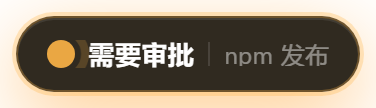
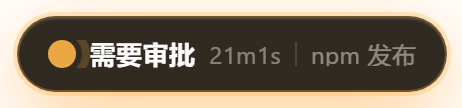
docs+fix: 0.3.1 — 补气泡/多行/多任务截图与版本说明；可见性心跳（浮层崩溃后不再假死）、清理死代码

Changed region(s): [[0.0878, 0.3611, 0.9069, 0.6389], [0.8484, 0.1111, 0.9947, 0.8889], [0.0293, 0.1111, 0.1463, 0.8889]]

diff --git a/docs/shoot.js b/docs/shoot.js
@@ -1,4 +1,5 @@
-// 开发用：渲染 README 里的截图（真实浮层 UI，不是 demo 页）。用法（在插件目录下）：
+// 开发用：渲染 README 里的截图（真实浮层 UI，不是 demo 页）。
+// 用法（在插件目录下）：
 //   unset ELECTRON_RUN_AS_NODE; "%LOCALAPPDATA%\dsh-island-runtime\DeepSeek Harness.exe" docs
 // 输出到 docs/shots/。
 const { app, BrowserWindow } = require('electron')
@@ -8,22 +9,107 @@ const path = require('path')
 const OVERLAY = path.join(__dirname, '..', 'overlay', 'index.html')
 const STUB = path.join(__dirname, 'shoot-preload.js')
 const OUT = path.join(__dirname, 'shots')
-const now = Date.now()
-const CFG = { scale: 1, mini: 34, position: 'top-center', showWhen: 'always', holdMs: { thinking: 60000, done: 60000, failed: 60000 }, effects: { whale: true, pulse: true, shake: true, reduce: false }, states: { thinking: true, approval: true, done: true, failed: true }, hideFullscreen: true }
 
-const CASES = {
-  thinking: [{ id: 'a', title: 'dsh 灵动岛状态提示方案', state: 'thinking', since: now - 83000 }],
-  approval: [{ id: 'a', title: 'npm 发布', state: 'approval', detail: 'shell', since: now - 4000 }],
-  done: [{ id: 'a', title: '重构浮层多任务布局', state: 'done', since: now - 500 }],
-  failed: [{ id: 'a', title: '修复登录超时', state: 'failed', detail: 'ECONNREFUSED', since: now - 500 }],
-  idle: [{ id: 'a', title: 'dsh 灵动岛', state: 'thinking', since: now - 83000 }], // 收起后的迷你态
-  multi: [
-    { id: 'a', title: 'npm 发布', state: 'approval', detail: 'shell', since: now - 4000 },
-    { id: 'b', title: '修复登录超时', state: 'failed', detail: 'ECONNREFUSED', since: now - 3000 },
-    { id: 'c', title: 'dsh 灵动岛方案', state: 'thinking', since: now - 83000 },
-    { id: 'd', title: '构建产物', state: 'done', since: now - 1000 },
-  ],
+const CFG = (o) => Object.assign({
+  scale: 1, mini: 34, position: 'top-center', showWhen: 'always',
+  layout: 'single', maxRows: 5,
+  holdMs: { thinking: 600000, done: 600000, failed: 600000 },
+  effects: { whale: true, pulse: true, shake: true, reduce: false },
+  states: { thinking: true, approval: true, done: true, failed: true },
+  hideFullscreen: true, bubble: { approval: true, ask: true },
+}, o || {})
+
+// stateAt 必须是「推给浮层的那一刻」，否则 done(3s)/failed(6s) 的 TTL 会把它们滤掉。
+// since 用相对偏移，保证计时器上的秒数每次都一样，截图可复现。
+const it = (id, title, state, agoMs, extra) => Object.assign({
+  id, title, state, detail: '',
+  since: Date.now() - (agoMs || 60000),
+  stateAt: Date.now(),
+}, extra || {})
+
+const APPROVAL = {
+  id: 'ap-demo', kind: 'approval', toolName: 'shell',
+  reason: '要在 npmjs 上发布 dsh-island-overlay@0.3.0，需要执行 npm publish',
 }
+const ASK = {
+  id: 'q-demo', kind: 'ask',
+  questions: [{
+    id: 'q1', question: '这次发布用哪个 tag？', header: '选择',
+    options: [{ label: 'latest' }, { label: 'next' }], multiSelect: false,
+  }],
+}
+
+// 每个用例：{ name, items, pending, cfg, hover }
+const CASES = [
+  {
+    name: 'thinking',
+    items: () => [it('a', 'dsh 灵动岛状态提示方案', 'thinking', 83000)],
+    pending: [], cfg: CFG(),
+  },
+  {
+    name: 'approval',
+    items: () => [it('a', 'npm 发布', 'approval', 1261000, { detail: 'shell' })],
+    pending: [], cfg: CFG(),
+  },
+  {
+    name: 'done',
+    items: () => [it('a', '重构浮层多任务布局', 'done', 500)],
+    pending: [], cfg: CFG(),
+  },
+  {
+    name: 'failed',
+    items: () => [it('a', '修复登录超时', 'failed', 500, { detail: 'ECONNREFUSED 127.0.0.1:3425' })],
+    pending: [], cfg: CFG(),
+  },
+  {
+    name: 'idle',
+    items: () => [it('a', 'dsh 灵动岛', 'thinking', 83000)],
+    pending: [], cfg: CFG({ holdMs: { thinking: 400, done: 400, failed: 400 } }),
+  },
+  {
+    name: 'multi',
+    items: () => [
+      it('a', 'npm 发布', 'approval', 1261000, { detail: 'shell' }),
+      it('b', '修复登录超时', 'failed', 180000, { detail: 'ECONNREFUSED' }),
+      it('c', 'dsh 灵动岛方案', 'thinking', 480000),
+      it('d', '构建产物', 'done', 1000),
+    ],
+    pending: [], cfg: CFG(),
+  },
+  {
+    // 多行布局，maxRows=3，4 个会话 → 第 3 行行尾 +1
+    name: 'multi-rows',
+    items: () => [
+      it('a', 'npm 发布', 'approval', 1261000, { detail: 'shell' }),
+      it('b', '修复登录超时', 'failed', 180000, { detail: 'ECONNREFUSED' }),
+      it('c', 'dsh 灵动岛方案', 'thinking', 480000),
+      it('d', '构建产物', 'done', 1000),
+    ],
+    pending: [], cfg: CFG({ layout: 'multi', maxRows: 3 }),
+  },
+  {
+    // 审批气泡：DSH 在后台时，胶囊下方直接点「允许一次 / 拒绝」
+    name: 'bubble-approval',
+    items: () => [it('a', 'npm 发布', 'approval', 1261000, { detail: 'shell' })],
+    pending: [APPROVAL], cfg: CFG(),
+  },
+  {
+    // 提问气泡：选项 + 自定义输入 + 改用官方卡片
+    name: 'bubble-ask',
+    items: () => [it('a', '发布前确认', 'ask', 120000, { detail: '等待你的回答' })],
+    pending: [ASK], cfg: CFG(),
+  },
+  {
+    // 多行 + 气泡：最占空间的组合，用来判断小屏够不够放
+    name: 'multi-bubble',
+    items: () => [
+      it('a', 'npm 发布', 'approval', 1261000, { detail: 'shell' }),
+      it('b', '修复登录超时', 'failed', 180000, { detail: 'ECONNREFUSED' }),
+      it('c', 'dsh 灵动岛方案', 'thinking', 480000),
+    ],
+    pending: [APPROVAL], cfg: CFG({ layout: 'multi', maxRows: 3 }),
+  },
+]
 
 app.disableHardwareAcceleration()
 
@@ -31,29 +117,44 @@ app.whenReady().then(async () => {
   fs.mkdirSync(OUT, { recursive: true })
   // 必须 show：隐藏窗口不重绘，截出来永远是第一帧
   const win = new BrowserWindow({
-    width: 480, height: 88, show: true, frame: false, transparent: true, backgroundColor: '#00000000',
+    width: 620, height: 460, show: true, frame: false, transparent: true,
+    backgroundColor: '#00000000',
     webPreferences: { preload: STUB, contextIsolation: false, backgroundThrottling: false },
   })
   await win.loadFile(OVERLAY)
   await new Promise((r) => setTimeout(r, 600))
 
-  for (const [name, items] of Object.entries(CASES)) {
-    // idle 用 400ms 收起，其余保持展开
-    const cfg = name === 'idle' ? Object.assign({}, CFG, { holdMs: { thinking: 400, done: 400, failed: 400 } }) : CFG
-    await win.webContents.executeJavaScript(`__islandPush(${JSON.stringify({ items, cfg })}); void 0`)
-    await new Promise((r) => setTimeout(r, name === 'idle' ? 1200 : 900))
-    // 只截胶囊那一块，别留大片空白
-    const r = await win.webContents.executeJavaScript(
-      `(() => { const b = document.getElementById('island').getBoundingClientRect(); return { x: b.x, y: b.y, w: b.width, h: b.height } })()`
+  for (const c of CASES) {
+    await win.webContents.executeJavaScript(
+      `window.__islandPush(${JSON.stringify({ items: typeof c.items === "function" ? c.items() : c.items, pending: c.pending, foreground: false, cfg: c.cfg })}); void 0`
+    )
+    await new Promise((r) => setTimeout(r, c.name === 'idle' ? 1200 : 900))
+    // 只截内容：wrap 是 position:fixed 满宽，量它没用；量「胶囊 + 气泡」的实际并集
+    const r = await win.webContents.executeJavaScript(`(() => {
+      const boxes = [document.getElementById('island')]
+      const b = document.getElementById('bubble')
+      if (b && !b.classList.contains('hidden')) boxes.push(b)
+      let x1 = Infinity, y1 = Infinity, x2 = -Infinity, y2 = -Infinity
+      for (const el of boxes) {
+        const q = el.getBoundingClientRect()
+        if (q.width <= 0 || q.height <= 0) continue
+        x1 = Math.min(x1, q.x); y1 = Math.min(y1, q.y)
+        x2 = Math.max(x2, q.x + q.width); y2 = Math.max(y2, q.y + q.height)
+      }
+      if (!isFinite(x1)) return { x: 0, y: 0, w: 1, h: 1 }
+      return { x: x1, y: y1, w: x2 - x1, h: y2 - y1 }
+    })()`
     )
     const pad = 8
+    const x = Math.max(0, Math.floor(r.x - pad))
+    const y = Math.max(0, Math.floor(r.y - pad))
     const img = await win.capturePage({
-      x: Math.max(0, Math.floor(r.x - pad)), y: Math.max(0, Math.floor(r.y - pad)),
-      width: Math.min(480 - Math.max(0, Math.floor(r.x - pad)), Math.ceil(r.w + pad * 2)),
-      height: Math.min(88 - Math.max(0, Math.floor(r.y - pad)), Math.ceil(r.h + pad * 2)),
+      x, y,
+      width: Math.min(620 - x, Math.ceil(r.w + pad * 2)),
+      height: Math.min(460 - y, Math.ceil(r.h + pad * 2)),
     })
-    fs.writeFileSync(path.join(OUT, name + '.png'), img.toPNG())
-    console.log('shot', name)
+    fs.writeFileSync(path.join(OUT, c.name + '.png'), img.toPNG())
+    console.log('shot', c.name, Math.round(r.w) + 'x' + Math.round(r.h))
   }
 
   app.quit()

diff --git a/lib/index.js b/lib/index.js
@@ -105,6 +105,10 @@ const QUIET_KINDS = new Set(['aborted', 'interrupted', 'forked'])
 // 自检/排错时可用 DSH_ISLAND_BUBBLE_MS（毫秒）临时改小。
 const BUBBLE_MS = Number(process.env.DSH_ISLAND_BUBBLE_MS) || 30 * 60 * 1000
 
+// 浮层可见性心跳：浮层每 5 秒重报一次「我可见」。超过这个时间没报就当它没了，
+// 审批立刻交回官方卡片。没有这条，浮层崩溃后宿主会一直以为它还在屏幕上。
+const VISIBLE_TTL = 20000
+
 export default {
   name: 'dsh-island-overlay',
   apply(root) {
@@ -121,6 +125,10 @@ export default {
     // 一直卡到 BUBBLE_MS（30 分钟）超时才算失败。默认 false：浮层没起来/没上报
     // 之前一律不拦截，宁可走官方卡片。
     let overlayVisible = false
+    // 最后一次上报可见性的时刻：浮层崩了/被 kill 就不会再报，
+    // 光看 overlayVisible 会把审批永远扣在一个已经不存在的窗口上。
+    let visibleAt = 0
+    let overlayTokenSeen = false
     // 浮层上报的 token：随每个 pending 下发，answers 必须原样带回才被接受。
     // 防止任意同用户进程往 answers 文件里塞一条就能批准待执行的命令。
     let overlayToken = ''
@@ -254,18 +262,19 @@ export default {
         if (typeof obj.fg === 'boolean') foreground = obj.fg
         // 浮层可见性：只有浮层明确说「我在屏幕上」才允许拦审批。
         // 缺这个字段（旧浮层）按不可见处理——宁可走官方卡片，也不要假死。
-        if (typeof obj.visible === 'boolean') overlayVisible = obj.visible
-        // 浮层上报了我们下发的 token 才算握手完成
-        if (typeof obj.token === 'string' && obj.token === overlayToken) overlayVisible = overlayVisible && true
+        if (typeof obj.visible === 'boolean') {
+          overlayVisible = obj.visible
+          // 记下它是什么时候说的：浮层崩溃/被 kill 之后不会再说一次，
+          // 光看这个布尔值会把审批永远扣在一个已经不存在的窗口上。
+          visibleAt = Date.now()
+        }
+        if (typeof obj.token === 'string') overlayTokenSeen = obj.token === overlayToken
       } catch (err) {}
     }
 
-    // 气泡能不能真的被看到：浮层在屏幕上、且 DSH 不在前台。
-    // 任一不满足就走官方卡片，绝不把审批扣在一个用户看不见的气泡里。
-    function canBubble() {
-      if (foreground) return false
-      if (!overlayVisible) return false
-      return true
+    // 浮层还在呼吸吗？VISIBLE_TTL 内没再上报就当它没了。
+    function overlayAlive() {
+      return overlayVisible && (Date.now() - visibleAt) < VISIBLE_TTL
     }
 
     // 生成一个“气泡优先、超时/中止转官方卡片兜底”的 waterfall 应答者。
@@ -280,7 +289,7 @@ export default {
         // 浮层不可见（全屏应用/心跳过期被隐藏/还没起来）：也不拦。
         // 这一条是硬要求：气泡画在隐藏窗口里 = 用户看不到、官方卡片也不出现，
         // 一直卡到 30 分钟超时才失败。宁可当场交给官方卡片。
-        if (!overlayVisible) { log('answerer skip: overlay not visible'); return next() }
+        if (!overlayAlive()) { log('answerer skip: overlay not visible'); return next() }
         // 用户关掉了对应气泡类型：也直接交给官方卡片
         if (enabled && !enabled()) { log('answerer skip: disabled'); return next() }
         let view

diff --git a/overlay/main.js b/overlay/main.js
@@ -45,7 +45,6 @@ let watchProc = null
 let hiddenByFs = false
 let dshForeground = false
 let hoverActive = false
-let bubbleInteractive = false
 
 const cfgOf = (st) => (st && st.cfg) || DEFAULTS
 
@@ -399,11 +398,9 @@ ipcMain.on('set-rows', (_e, n) => {
 })
 
 // 气泡高度（未缩放 px）变化 → 窗口自适应（胶囊在顶、气泡在下的总高）。
-// 气泡在场时窗口必须接收鼠标，好点击气泡里的按钮。
+// 鼠标命中由 set-hit 上报的矩形决定，这里只管尺寸。
 ipcMain.on('set-bubble', (_e, px) => {
   const next = Math.max(0, Math.floor(Number(px) || 0))
-  bubbleInteractive = next > 0
-  applyIgnoreMouse()
   if (next === bubblePx) return
   bubblePx = next
   if (dragOrigin) return
@@ -476,10 +473,11 @@ function readHostToken() {
   } catch (err) { return '' }
 }
 
-function writeForeground(fg, visible) {
+function writeForeground(fg, visible, force) {
   try {
     const vis = visible !== undefined ? !!visible : !!(win && !win.isDestroyed() && win.isVisible())
-    if (fg === lastFgWrite && vis === lastVisibleWrite) return
+    // force=true 时无视去重：宿主把「多久没上报」当存活信号，必须定期重报
+    if (!force && fg === lastFgWrite && vis === lastVisibleWrite) return
     lastFgWrite = fg
     lastVisibleWrite = vis
     const token = readHostToken()
@@ -493,6 +491,10 @@ app.whenReady().then(() => {
   tick()
   setInterval(tick, 400)
   watch()
+  // 可见性心跳：宿主把「最近 20 秒内有没有上报」当浮层存活信号。
+  // 崩溃/被 kill 后上报会停，宿主就不再拦审批，审批自动回到官方卡片。
+  writeForeground(dshForeground, undefined, true)
+  setInterval(() => writeForeground(dshForeground, undefined, true), 5000)
   // 每 60 秒留一条活口，日志里能看出它到底活到什么时候
   setInterval(() => log('alive'), 60000)
 })

diff --git a/docs/shoot-preload.js b/docs/shoot-preload.js
@@ -1,4 +1,5 @@
-// 开发用截图桩：contextIsolation:false，直接把 islandApi 挂到 window 上
+// 开发用截图桩：contextIsolation:false，直接把 islandApi 挂到 window 上。
+// 新版浮层还会调 setRows/setBubble/setHit/answer，这里全部吃掉（截图不需要）。
 let cb = null
 window.islandApi = {
   onState: (fn) => { cb = fn },
@@ -6,5 +7,9 @@ window.islandApi = {
   activate: () => {},
   dragStart: () => {},
   dragEnd: () => {},
+  setRows: () => {},
+  setBubble: () => {},
+  setHit: () => {},
+  answer: () => {},
 }
 window.__islandPush = (payload) => cb && cb(payload)
